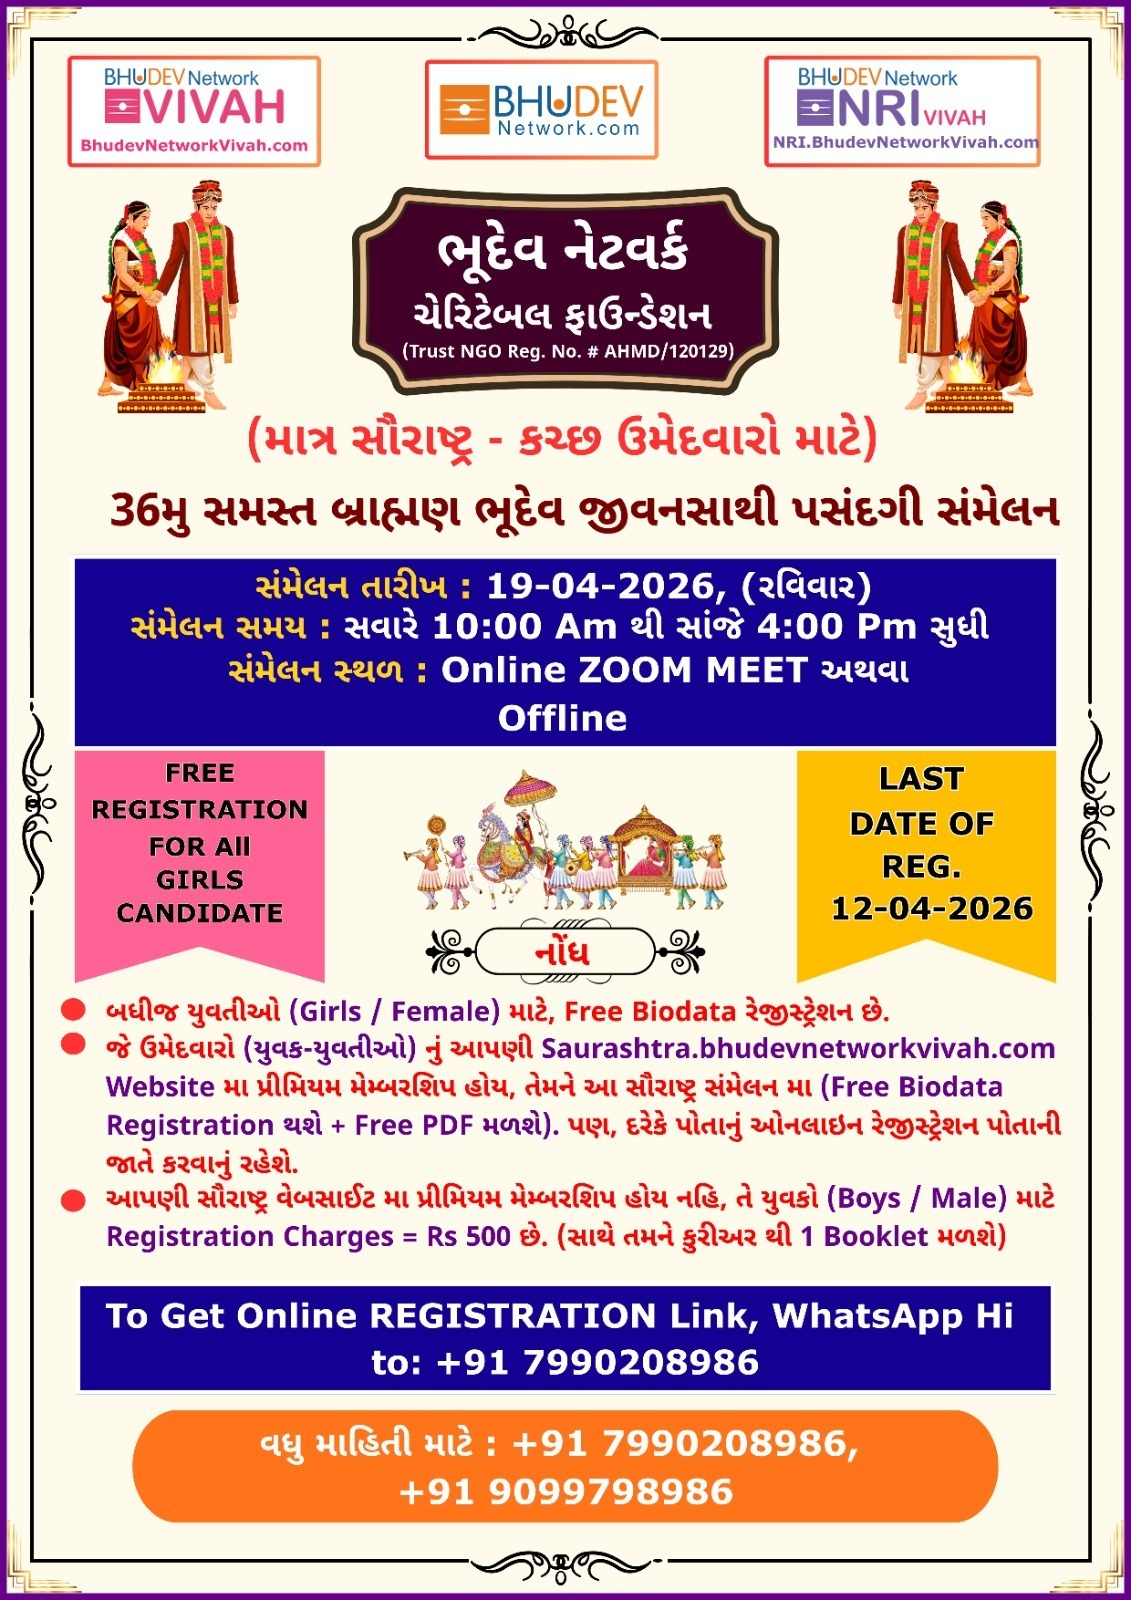
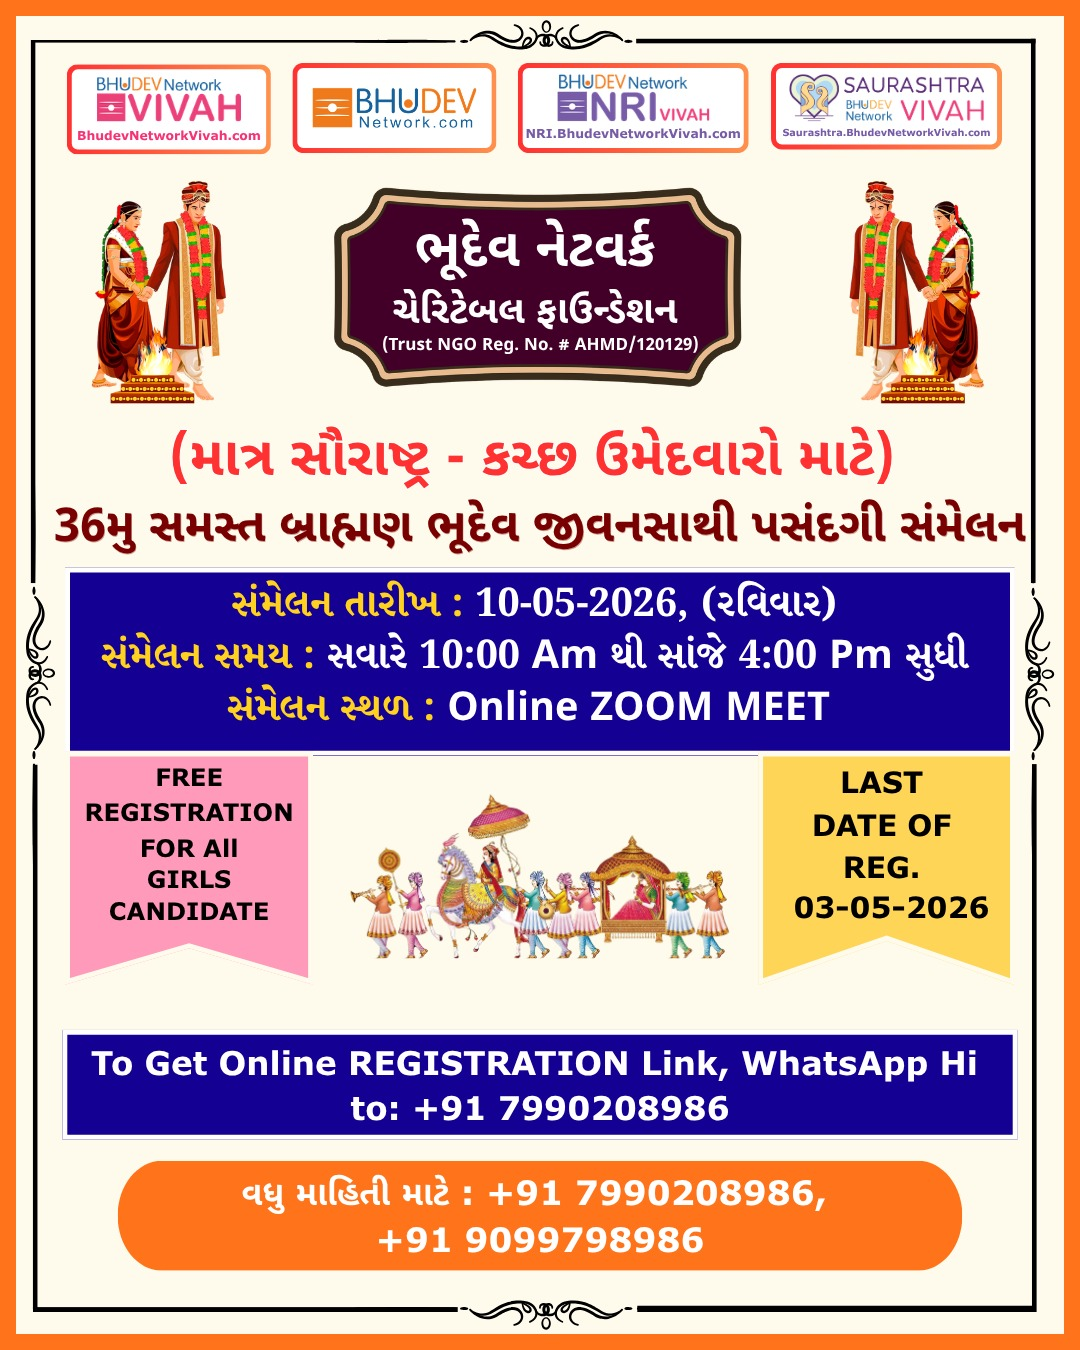
change6 in new form

diff --git a/templates/biodata/saurashtra_kutch_form.html b/templates/biodata/saurashtra_kutch_form.html
@@ -653,20 +653,26 @@
 
   <!-- Event Description Start -->
     <div class="event-description-box">
-      <b>36મુ સમસ્ત બ્રાહ્મણ ભૂદેવ જીવનસાથી પસંદગી સંમેલન</b><br><br>
-      ✔ Only Saurashtra & Kutch ઉમેદવારો માટે આ જીવનસાથી પરિચય સંમેલન છે.<br>
-      ✔ બાયોડેટા રેજીસ્ટ્રેશન last Date : 12-04-2026<br><br>
-      Online Biodata રેજીસ્ટ્રેશન છેલ્લી તારીખ : 12-04-2026<br><br>
-      <b>સંમેલન તા. :</b> 19-04-2026 (રવિવાર)<br>
-      <b>સમય :</b> સવારે 10 AM થી 4 PM<br>
-      <b>સ્થળ :</b> Online Zoom મિટિંગ <span style="font-size:0.95em;">( નોંધ : માત્ર રેજીસ્ટર્ડ ઉમેદવારો ને Online Zoom Meeting ની લીંક મોકલવામાં આવશે)</span><br><br>
+      માત્ર સૌરાષ્ટ્ર - કચ્છ ના ઉમેદવારો માટે..<br>
+      <b>*36મુ સમસ્ત બ્રાહ્મણ - ભૂદેવ જીવનસાથી પરિચય - પસંદગી - મિટિંગ Online સંમેલન*</b>  (Only for Saurashtra-Kutch Candidates) | સંમેલન તા. 10-05-2026 <br><br>
+     
+      ✔ બાયોડેટા રેજીસ્ટ્રેશન last Date : 03/05/2026<br>
+      ✔ ઘરે બેઠા Online Zoom Meeting થી ભાગ Online લેવાનો રહેશે.<br><br>
+      👉🏻 <b>ઓનલાઇન બાયોડેટા રેજીસ્ટ્રેશન Form</b> : <a href="https://form.bhudevstore.com/saurashtra-kutch-sammelan-form/" target="_blank">https://form.bhudevstore.com/saurashtra-kutch-sammelan-form/</a><br>
+      (રેજીસ્ટ્રેશન છેલ્લી તારીખ : 03/05/2026)<br><br>
+      <b>સંમેલન તા.</b> : 10-05-2026 (રવિવાર)<br>
+      <b>સમય</b> : સવારે 10 AM થી 4 PM<br>
+      <b>સ્થળ</b> : Online Zoom મિટિંગ <span style="font-size:0.95em;">( નોંધ : માત્ર રેજીસ્ટર્ડ ઉમેદવારો ને Online Zoom Meeting ની લીંક મોકલવામાં આવશે)</span><br><br>
       <b>ખાસ નોંધ :</b><br>
       <span style="white-space:pre-line;">
         ~~~~~~~~<br>
-        ✔ બધીજ યુવતીઓ (Girls) માટે Free Biodata Registration છે.<br>
-        ✔ બુકલેટ મા રેજીસ્ટ્રેશન હોય તે યુવતીઓ (Girls) ઓનલાઇન પોતાનો પરિચય આપશે, તેમને 1 Boys Booklet Free Gift by Courier આપવામાં આવશે.<br>
-        ✔ આપણી સમસ્ત બ્રાહ્મણ Saurashtra & Kutch Website : saurashtra.bhudevnetworkvivah.com મા All Premium Members ને 100% Free Registration & Free PDF મળશે.<br>
-        ✔ અન્ય યુવકો (Boys) માટે Registration Fees = Rs 500 (સાથે 1 Booklet Courier થી મળશે)
+        ✔ બધીજ ભૂદેવ દીકરીઓ - યુવતીઓ (Girls) માટે 100% Free Biodata Registration છે.<br><br>
+        ✔ બુકલેટ મા રેજીસ્ટ્રેશન હોય તે યુવતીઓ (Girls) ઓનલાઇન સંમેલન મા પોતાનો પરિચય આપશે, તેમને 1 Boys Booklet Free Gift by Free Courier આપવામાં આવશે.<br><br>
+        ✔ આપણી સમસ્ત બ્રાહ્મણ Saurashtra - Kutch ની World No. 1 Website : <a href="https://Saurashtra.BhudevNetworkVivah.com" target="_blank">Saurashtra.BhudevNetworkVivah.com</a> મા All Premium Members ને 100% Free Registration & Free Flip-Book / PDF મળશે. (As per Website Registration Plan)<br><br>
+        ✔ અન્ય યુવકો (Boys) માટે Registration Fees = Rs 500 (સાથે 1 Booklet Courier થી મળશે), 15-04-2026 સુધી (બાયોડેટા રેજીસ્ટ્રેશન + Booklet)  નું Rs. 500 પેમેન્ટ કર્યુ તો. અથવા, 06/05/2026 પછી, Rs 100 extra Courier charges લાગશે.<br><br>
+        <b>Join Saurashtra Group</b> :<br>
+        <a href="https://chat.whatsapp.com/JnO2auZ6p7S8OnZmYzhMtl" target="_blank">https://chat.whatsapp.com/JnO2auZ6p7S8OnZmYzhMtl</a><br>
+        <a href="https://chat.whatsapp.com/Ja4zCHFW1HU7u8LGnA01Nt" target="_blank">https://chat.whatsapp.com/Ja4zCHFW1HU7u8LGnA01Nt</a>
       </span>
     </div>
   <!-- Event Description End -->
@@ -946,7 +952,7 @@
           <select id="resCat" name="resCat" required>
             <option value="">Select an Option</option>
             <option value="saurashtra">Saurashtra Region</option>
-            <option value="kachchh">Kachchh Region</option>
+            <option value="kutch">Kutch Region</option>
             <option value="nri">NRI (Any Visa)</option>
           </select>
         </div>
